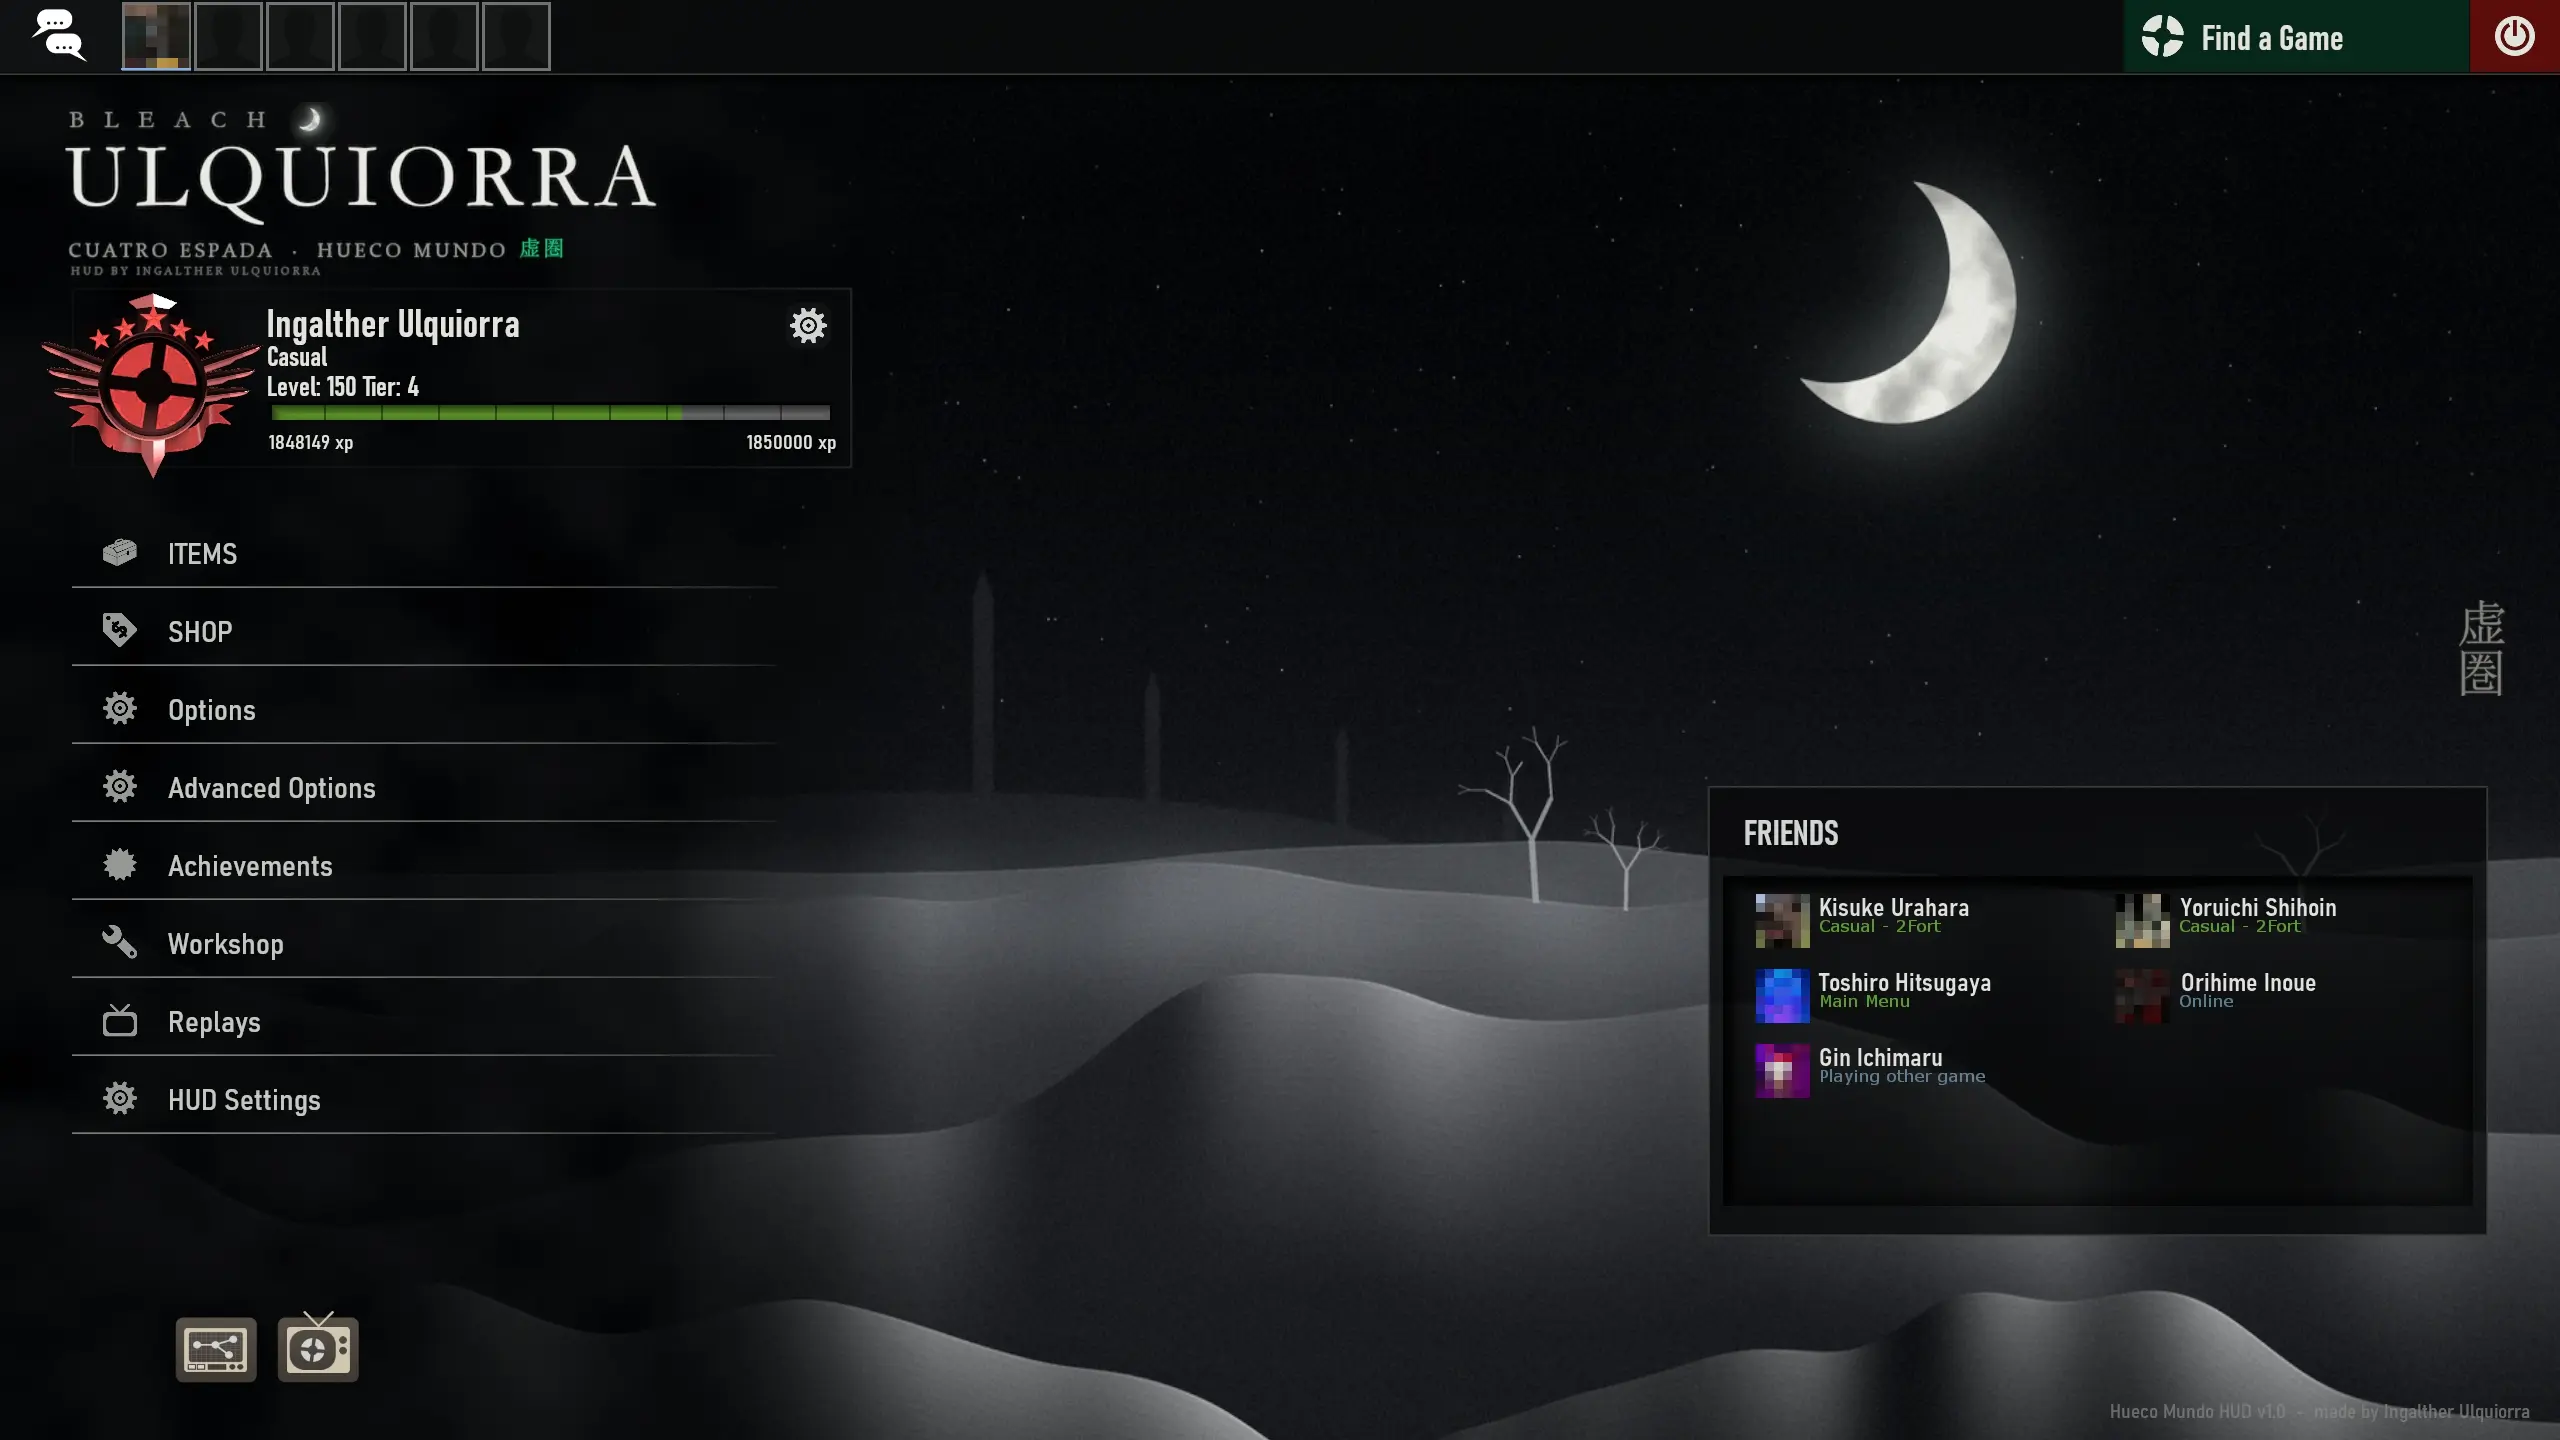
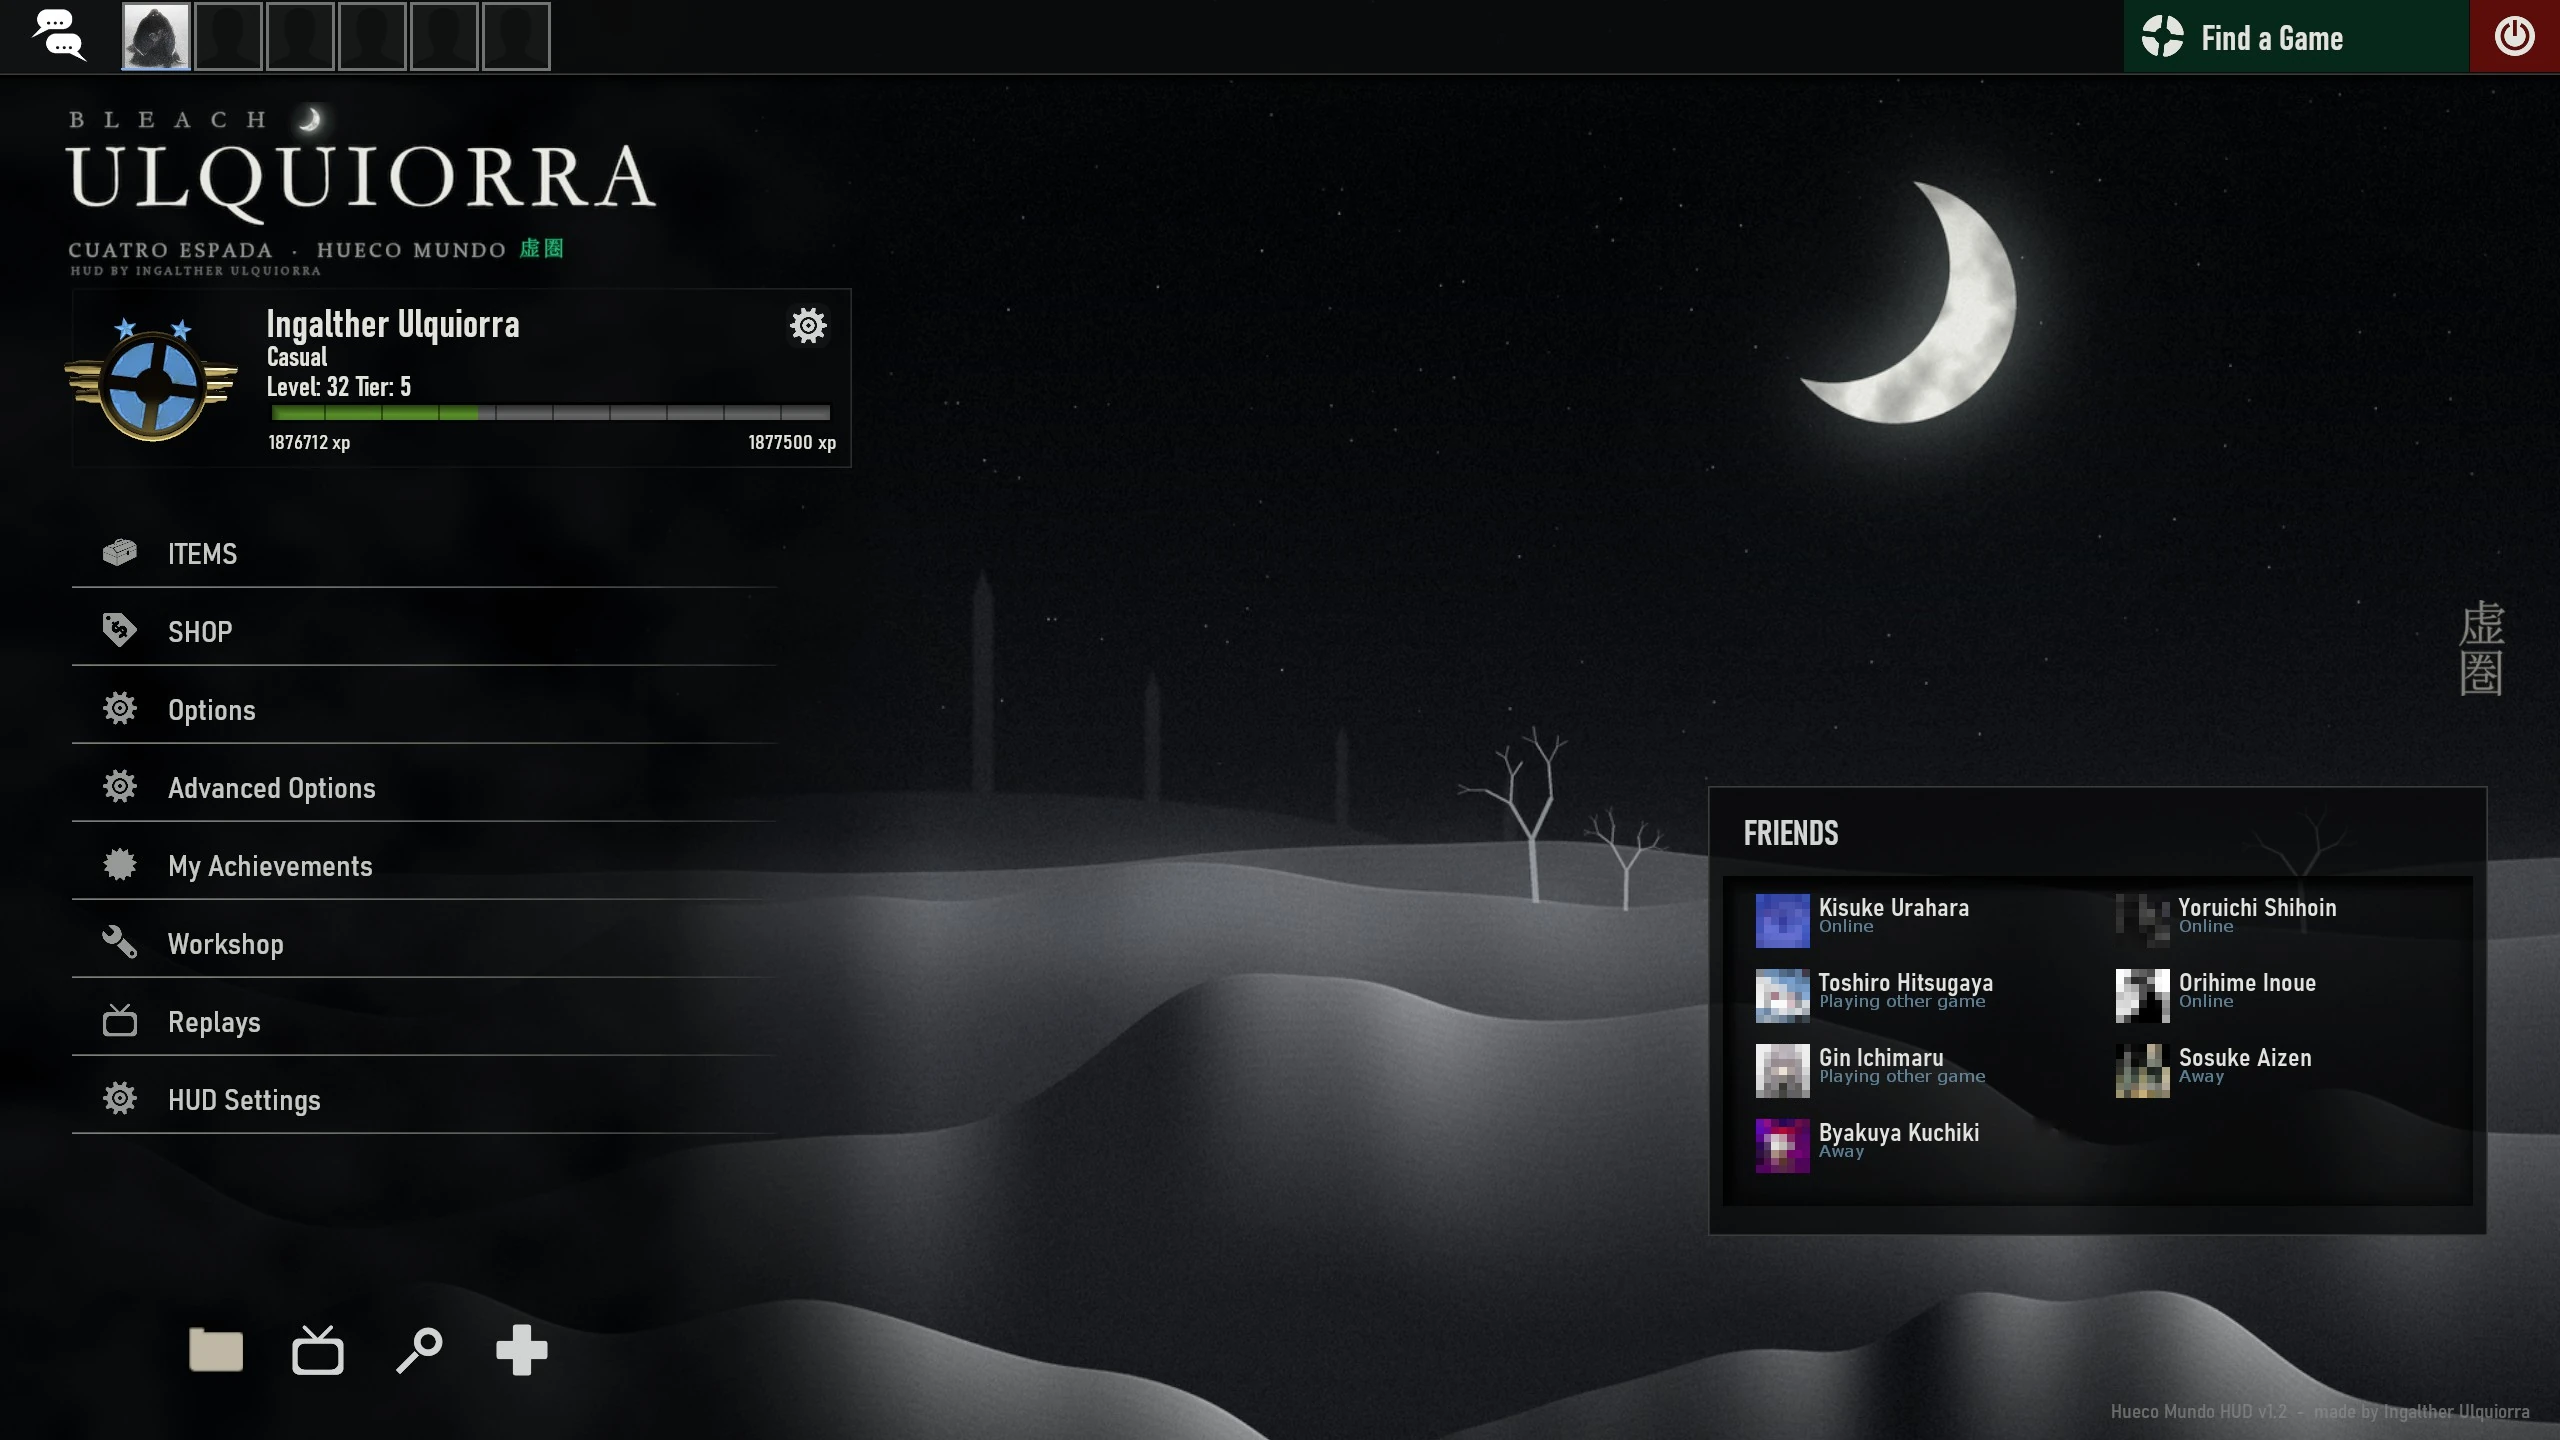
Update Hueco Mundo HUD to v1.2
Changelog: https://github.com/Ingalther/HuecoMundoHUD/releases/tag/v1.2

diff --git a/hud-pages/huecomundo-hud.md b/hud-pages/huecomundo-hud.md
@@ -1,10 +1,10 @@
 A Bleach / Ulquiorra Cifer themed HUD: Hueco Mundo by night, torn manga pieces in black, bone white and emerald.
 
-- **Main menu:** Hueco Mundo with Las Noches and the ULQUIORRA logo. It changes by itself on full-moon nights, for Scream Fortress and for Smissmas.
-- **Menus:** loadout, backpack, scoreboard, class and team select in black, grey and emerald.
+- **Main menu:** Hueco Mundo with Las Noches and the ULQUIORRA logo. It changes by itself on full-moon nights, for Scream Fortress and for Smissmas. Two icons at its foot open the community server browser and the create server window.
+- **Menus:** loadout, backpack, crafting, scoreboard, class and team select in black, grey and emerald, with manga search bars in the backpack and the item picker. The loadout can preview your class in BLU or RED.
 - **In game:** your 3D model (or TF2's 2D class art) on a torn triangle with the health beside it, ammo on an ink blade, and ÜberCharge, metal, stickies and item meters as manga cards.
 - **Manga-style** kill feed, damage numbers, target ID, death screen, win panel, notifications, Engineer / Spy menus and a hitmarker.
 
-**HUD Settings** in the main menu: CENTERED or CORNERS layout, 3D model or 2D class art.
+**HUD Settings** in the main menu: CENTERED or CORNERS layout, 3D model or 2D class art, and one-click fixes (sound, HUD, invisible players, reconnect...).
 
 Uses fonts that come with Windows 10/11 (Bahnschrift, Segoe UI, Constantia).
